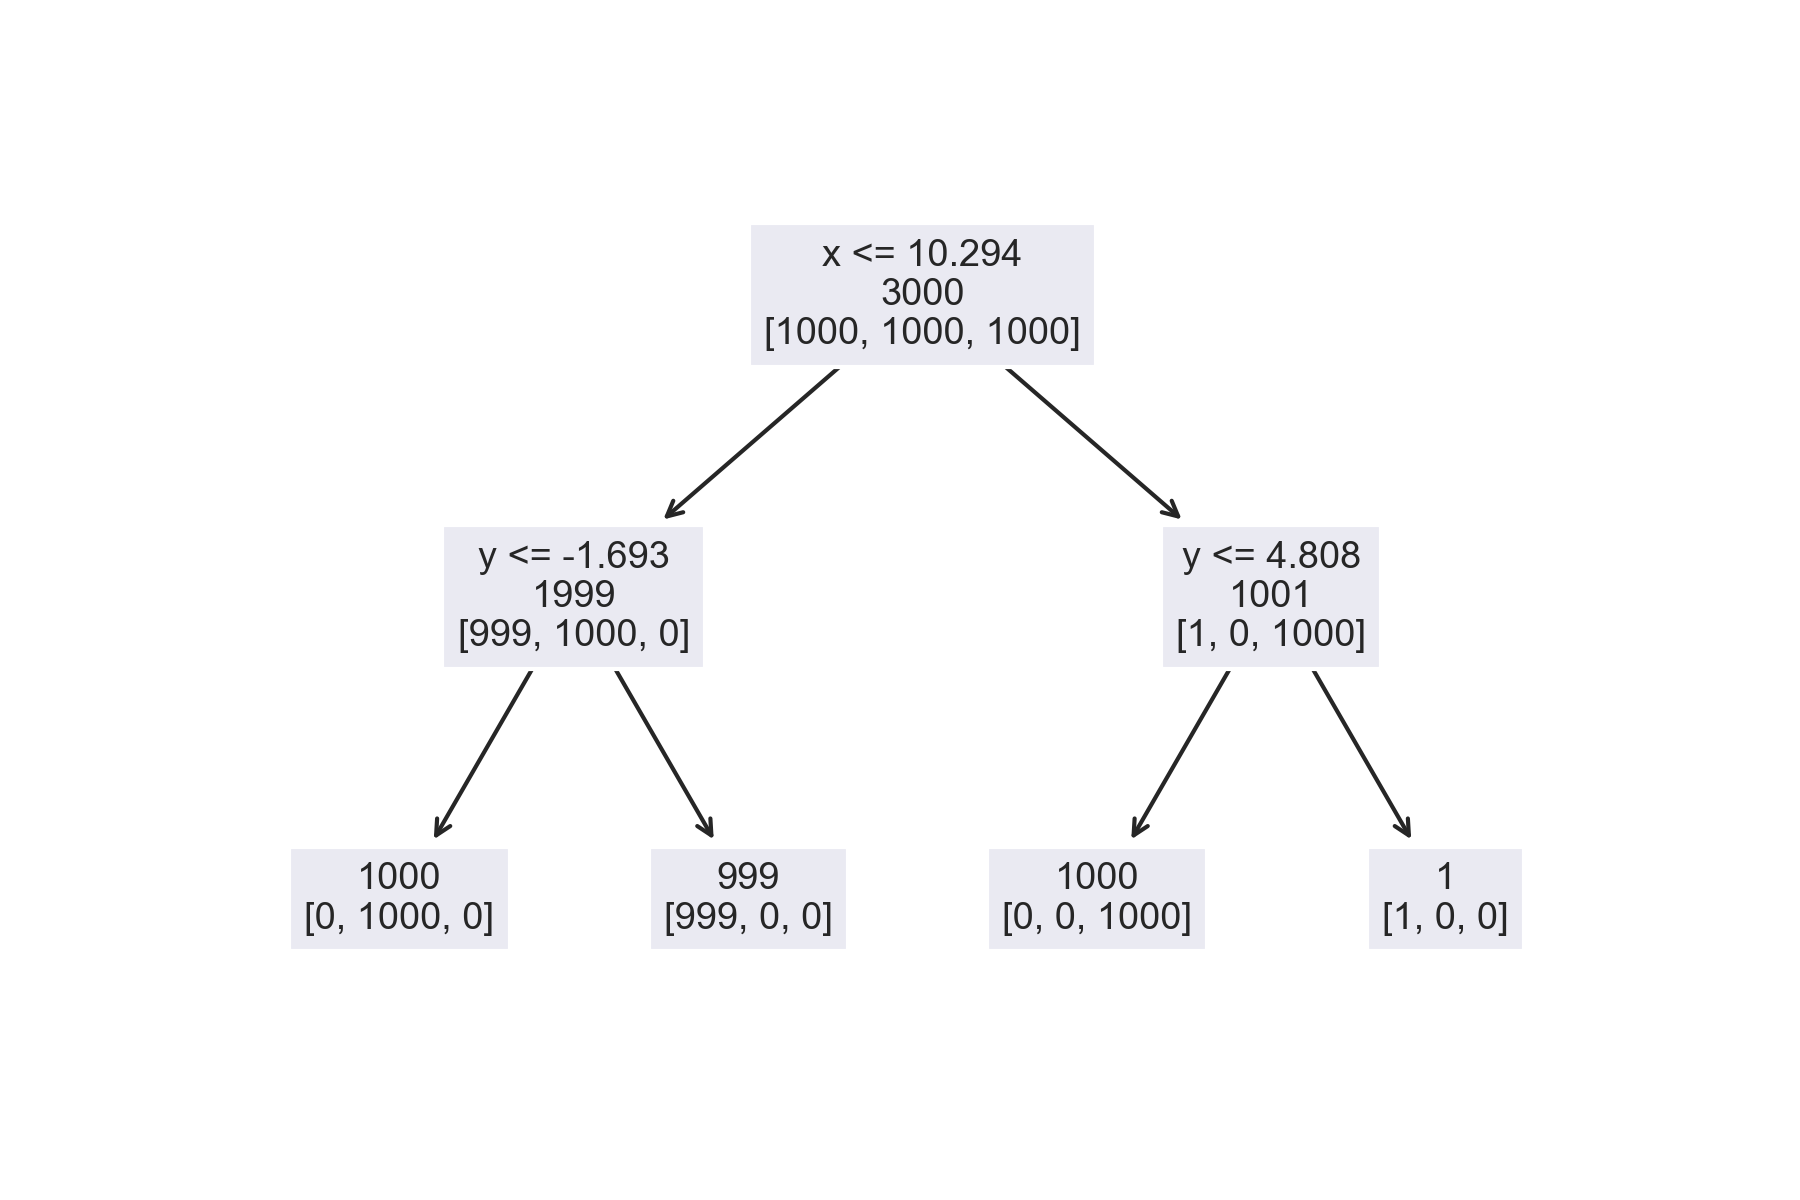
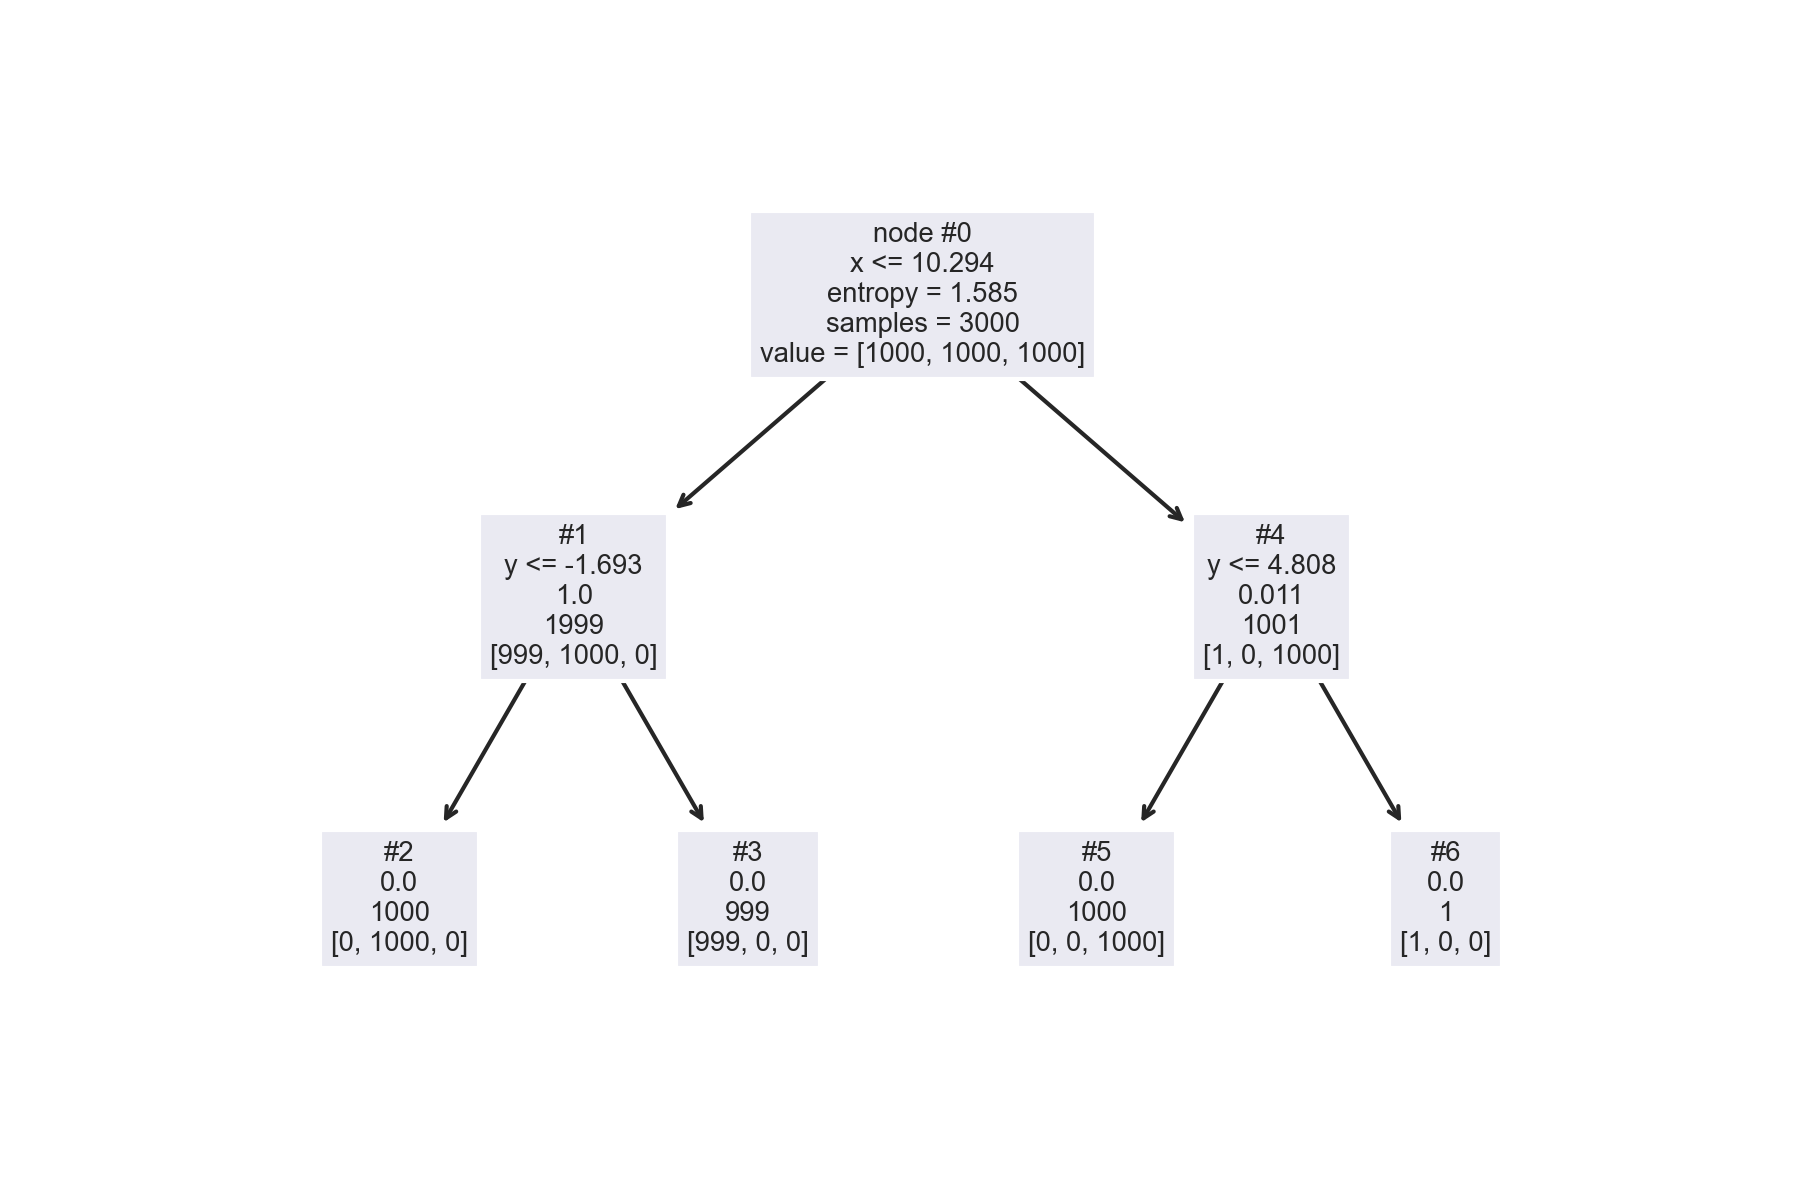
Árboles (5)

diff --git a/docs/capitulos/08Arboles.md b/docs/capitulos/08Arboles.md
@@ -74,25 +74,23 @@ plt.savefig('clases3-arboles.png', dpi=300)
 
 Con estas tres poblaciones, donde cada distribución genera una clase
 se crea un árbol de decisión. El árbol se muestra en la siguiente
-figura, donde se observa la siguiente información en cada nodo. La 
-primera linea muestra la función de corte, la función de corte
-se define en el proceso de construcción del árbol y se usa para 
-guiar a cualquier elemento que se quiera clasificar. 
+figura, donde se observa, en cada nodo interno, la siguiente información. La 
+primera linea muestra el identificador del nodo, la segunda corresponde
+a la función de corte, la tercera línea es la entropía 
+($$H(\mathcal Y) = -\sum_{y \in \mathcal Y} \mathbb P(\mathcal Y=y) \log_2 \mathbb P(\mathcal Y=y)$$), 
+la cuarta es el número de elementos que llegaron al nodo y 
+la última la frecuencia de cada clase en ese nodo. Por ejemplo, 
+la raíz (#0) tiene la función de corte $$x \leq 10.294$$, tiene una entropía 
+de $$1.585$$, recibió $$3000$$ elementos y cada clase tiene $$1000$$ ejemplos.
 
-La segunda y tercera linea de información en el nodo, corresponde
-a datos obtenidos durante el proceso de entrenamiento, esto son 
-el número de elementos que llegaron al nodo y la frecuencia de cada 
-clase en ese nodo. Por ejemplo, la raíz (nodo superior)
-tiene la función de corte $$x \leq 10.294$$, recibió $$3000$$ elementos
-y cada clase tiene $$1000$$ elementos. Utilizando la frecuencia de 
-clase se define la función de costo la cual se usa para dividir 
-los elementos que llegan al nodo, aquellos para los cuales la función
-es verdadera se envían al nodo izquierdo y el resto al nodo derecho. 
-De esta manera se observa que $$1999$$ están en el nodo izquierdo 
-de la raíz y $$1001$$ en el nodo derecho de la raíz. Los nodos 
-que no tiene hijos, se les conoce como hojas; estos nodos son los 
-que indican la case, por ejemplo la hoja derecha tiene $$1000$$ 
-elementos en la clase $$2$$. 
+Los hojas (nodos #2, #3, #5, y #6) no cuentan con una función de corte, 
+dado que son la parte final del árbol. En el árbol mostrado se observa
+que la entropía en todos los casos es $$0$$, lo cual indica que todos los 
+elementos que llegaron a ese nodo son de la misma clase. No en todos los 
+casos las hojas tienen entropía cero y existen parámetros en la creación
+del árbol que permiten crear árboles más simples. Por ejemplo, la hoja #6
+tiene solamente un ejemplo, uno se podría preguntar ¿qué pasaría si esa
+hoja se elimina? El resultado es tener un árbol más simple. 
 
 ![Árbol](/AprendizajeComputacional/assets/images/tree.png)
 <details markdown="block">
@@ -103,25 +101,38 @@ elementos en la clase $$2$$.
 ```python
 X = np.concatenate((X_1, X_2, X_3), axis=0)
 y = np.array([1] * 1000 + [2] * 1000 + [3] * 1000)
-arbol = tree.DecisionTreeClassifier().fit(X, y)
-_ = tree.plot_tree(arbol, impurity=False,
-                   feature_names=['x', 'y'], label='none')
+arbol = tree.DecisionTreeClassifier(criterion='entropy').fit(X, y)
+_ = tree.plot_tree(arbol, node_ids=True,
+                   feature_names=['x', 'y'], label='root')
 ```
 </details>
 <!--
 plt.savefig('tree.png', dpi=300)
 -->
 
+La siguiente figura muestra el árbol generado cuando el nodo #6 se quita. Se observa
+un árbol con menos nodos, aunque la entropía es diferente de cero en la hoja #4. 
+La segunda parte de la figura muestra la función de decisión que genera el árbol 
+de decisión. Se observa que cada regla divide el espacio en dos. La raíz (#0)
+divide los datos utilizando $$x \leq 10.294$$, donde todos los elementos para los cuales
+la función es verdadera se envían al nodo izquierdo (#1), de lo contrario se envían a la 
+hoja derecha (#4). Al nodo #1 llegan $$1999$$ los cuales se divide en
+utilizando $$y \leq -1.693$$, dando como resultado $$1000$$ en su hoja izquierda (#2)
+y $$999$$ en su hoja derecha (#3). 
+
+
+
 ![Árbol de Decisión y su Función de Decisión](/AprendizajeComputacional/assets/images/tree-funcion-decision.png)
 <details markdown="block">
   <summary>
     Código de la figura
   </summary>
+
 ```python
 ax = plt.subplot(2, 1, 1)
-arbol = tree.DecisionTreeClassifier(min_samples_split=1002).fit(X, y)
-_ = tree.plot_tree(arbol, impurity=False, ax=ax,
-                   feature_names=['x', 'y'], label='none')
+arbol = tree.DecisionTreeClassifier(criterion='entropy', min_samples_split=1002).fit(X, y)
+_ = tree.plot_tree(arbol, node_ids=True,
+                   feature_names=['x', 'y'], label='root')
 ax = plt.subplot(2, 1, 2)
 DecisionBoundaryDisplay.from_estimator(arbol, X, cmap=plt.cm.RdYlBu,
                                        response_method='predict',
@@ -136,19 +147,54 @@ for i, color in enumerate('ryb'):
 plt.savefig('tree-funcion-decision.png', dpi=300)
 -->
 
-La descripción de la figura anterior se puede observar en el siguiente video.
+Utilizando el árbol mostrado en la figura anterior, se puede explicar el proceso
+de clasificar un nuevo elemento. Por ejemplo, el 
+elemento $$\mathbf u=(x=-3, y=0.5)$$ (que se muestra en la siguiente 
+figura como un punto negro) se clasifica de la siguiente manera. La función de 
+corte ($$x \leq 10.294$$) de la raíz (#0) indica $$\mathbf u$$ pasa al nodo izquierdo #1.
+La función de corte ($$y \leq -1.693$$) del nodo #1 indica que $$\mathbf u$$ se
+envía a la hoja #3. La clase mayoritaria ($$999$$ elementos) en la hoja #3 
+es la clase $$1$$, entonces $$\mathbf u$$ pertenece a la clase $$1$$ de acuerdo 
+al árbol de decisión generado. 
 
-{%include arboles.html %}
+![Predicción](/AprendizajeComputacional/assets/images/tree-prediccion.png)
+<details markdown="block">
+  <summary>
+    Código de la figura
+  </summary>
 
-# Construcción de un Árbol de Decisión
+```python
+DecisionBoundaryDisplay.from_estimator(arbol, X, cmap=plt.cm.RdYlBu,
+                                       response_method='predict',
+                                       xlabel='x', ylabel='y')
+for i, color in enumerate('ryb'):
+    mask = y == (i + 1)
+    plt.scatter(X[mask, 0], X[mask, 1], c=color,
+                label=f'{i+1}', cmap=plt.cm.RdYlBu,
+                edgecolor='black')
 
-La construcción un árbol se realiza mediante un procedimiento recursivo en donde se aplica una función 
-$$f_m(x)$$ que etiqueta cada hijo del nodo $$m$$ con respecto a las etiquetas del proceso de 
-clasificación. Por ejemplo, en el árbol de la figura anterior, la función $$f_m$$ tiene la forma $$f_m(x) = x_i \leq a$$, donde el parámetro $$i$$ y $$a$$ son aquellos que optimizan una función de 
-aptitud. En el siguiente video se illustra como funciona este proceso recursivo en un problema de 
+plt.scatter([-3], [0.5], c='k',
+            label=f'{i+1}', cmap=plt.cm.RdYlBu, 
+            edgecolor='black')
+```
+</details>
+<!--
+plt.savefig('tree-prediccion.png', dpi=300)
+-->
+
+## Entrenamiento
+{: #sec:clasificacion-entrenamiento }
+
+La construcción un árbol se realiza mediante un procedimiento recursivo en donde 
+se aplica una función  de corte $$f_m(\mathbf x)$$ que divide los datos utilizando
+el corte que maximice una función de costo. 
+
+
+etiqueta cada hijo del 
+nodo $$m$$ con respecto a las etiquetas del proceso de clasificación. Por ejemplo, en el árbol de la figura anterior, la función $$f_m$$ tiene la forma $$f_m(x) = x_i \leq a$$, donde el parámetro $$i$$ y $$a$$ son aquellos que optimizan una función de 
+aptitud. En el siguiente video se ilustra como funciona este proceso recursivo en un problema de 
 clasificación.
 
-{%include arboles_construccion.html %}
 
 Para poder seleccionar la variable independiente y el valor que se utilizará para hacer el corte
 se requiere medir que tan bueno sería seleccionar la variable y un valor particular. Para medirlo
